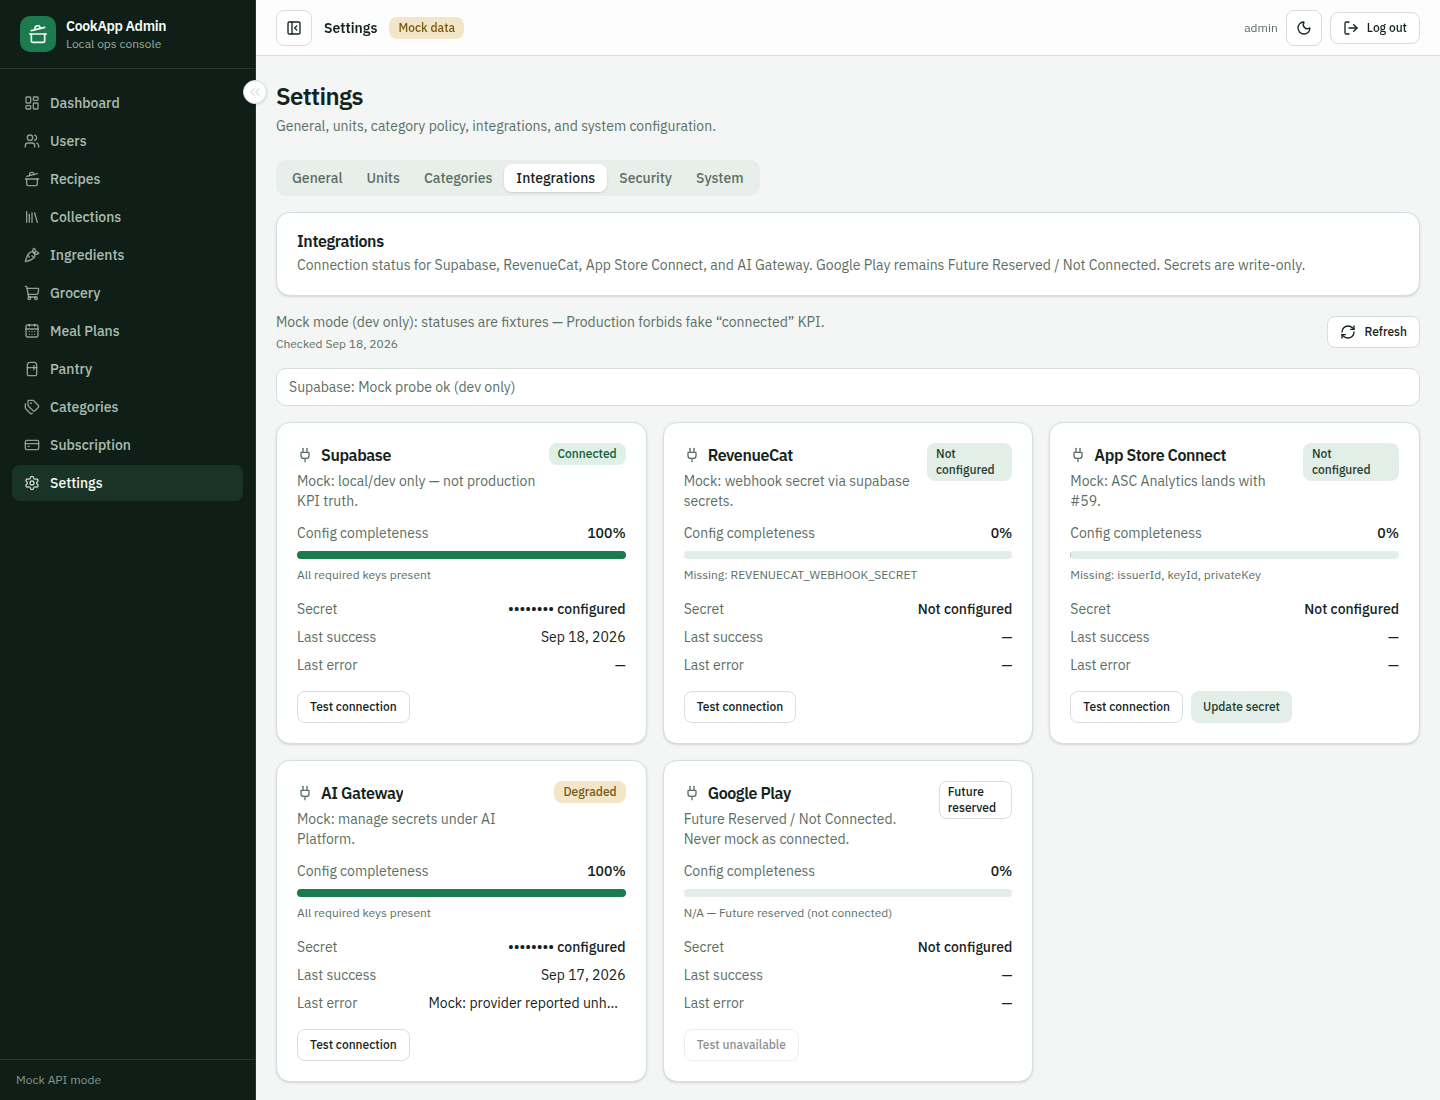
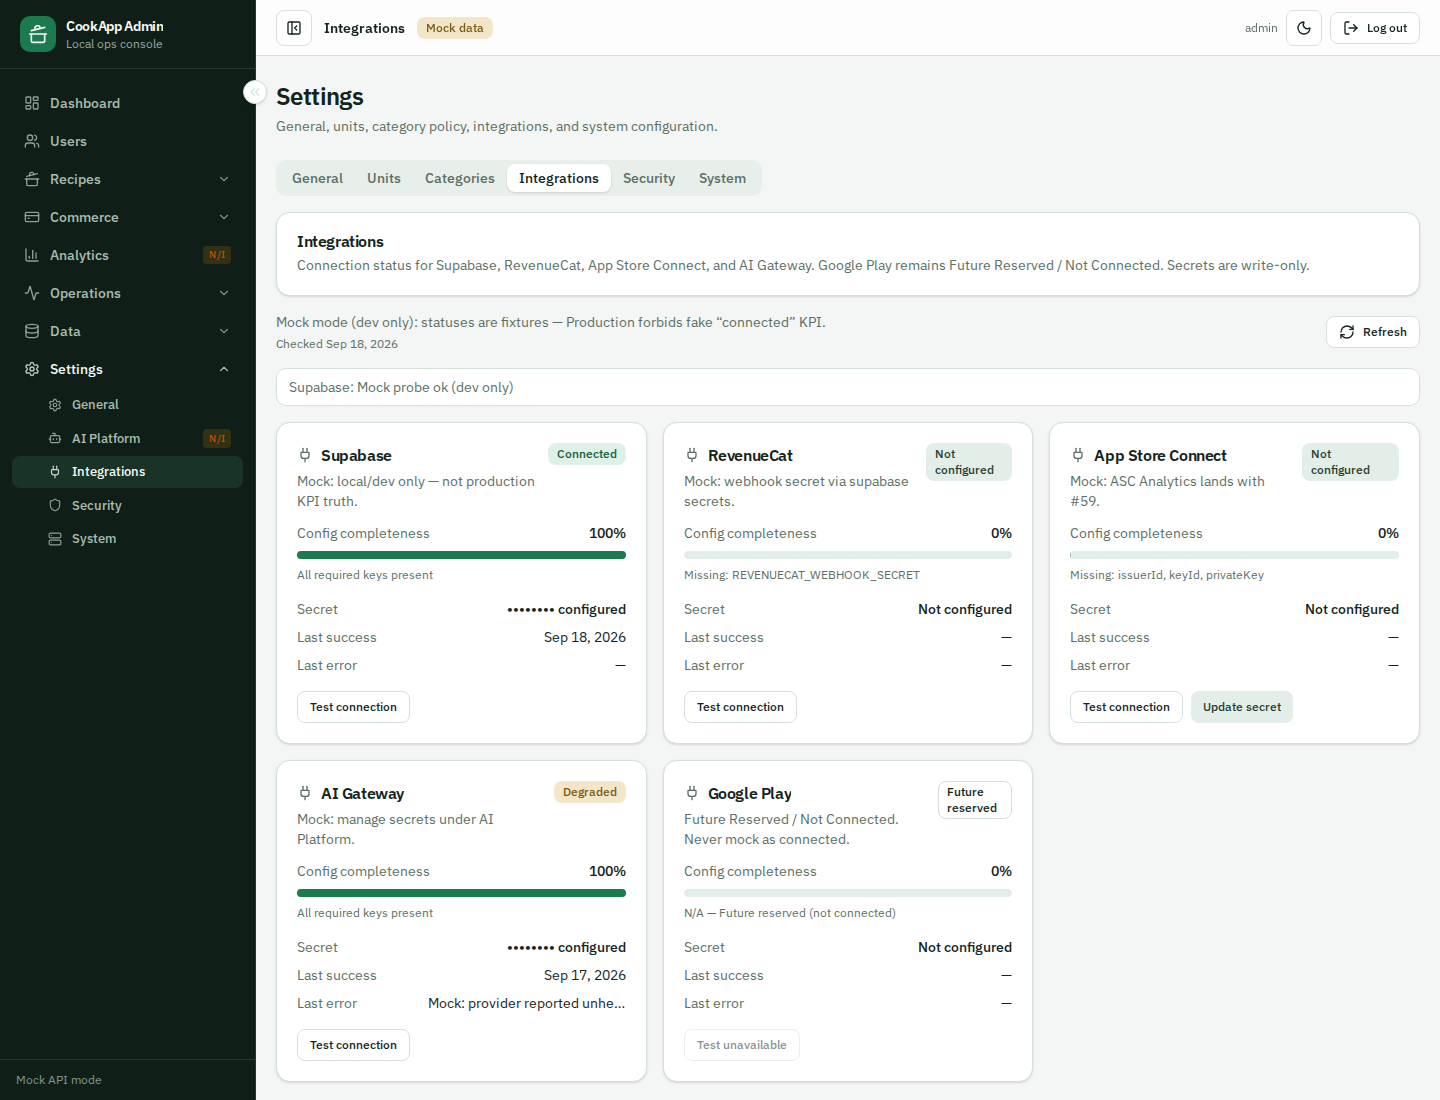
chore(qa): re-capture Integrations walkthrough under Settings nav
Refresh evidence for #63 after Refresh loading fix; desktop/mobile/dark/secret dialog under #64 IA.

diff --git a/.cursor/walkthrough-artifacts/issue63-integrations/VERDICT.md b/.cursor/walkthrough-artifacts/issue63-integrations/VERDICT.md
@@ -1,31 +1,33 @@
-# Admin Design QA — Settings → Integrations (#63)
+# Admin Design QA — Settings → Integrations (#63) — post-merge refresh fix
 
-Screen: **Settings → Integrations**  
+Screen: **Settings → Integrations** (nav leaf under #64 Settings group)  
 Code: `admin/src/pages/settings/integrations-panel.tsx`, `admin/src/pages/settings/settings-page.tsx`  
-Evidence: `integrations-desktop.png`, `integrations-mobile.png`, `integrations-after-test.png`  
+Evidence (re-captured after Refresh fix):
+- `integrations-desktop.png`
+- `integrations-mobile.png`
+- `integrations-desktop-dark.png`
+- `integrations-secret-dialog.png`
+- `integrations-after-test.png`
+- `page-text.txt`
+
 Rules: Global Admin UI Standard · shared Admin kit/tokens · data authenticity (V2 §11)
 
 ```
-VERDICT: PASS
-Screenshot fidelity: N/A (no Pestle/mobile screenshot SoT for Admin; layout matches Global Admin UI Standard + existing Settings shell). Desktop + narrow viewport captured.
-Liquid Glass: N/A (Admin web kit, not iOS Liquid Glass chrome).
-Consistency (shared chrome/tokens): PASS — reuses PageHeader/Tabs/Card/Badge/Button/Progress/Dialog from shared kit; brand green tokens; no page-local palette forks.
-Control states: PASS — LoadingBlock/ErrorState/Retry; Refresh; Test connection loading; Test unavailable disabled for Google Play; Update secret dialog with validation; mock-mode banner; secret masked as •••••••• configured.
-Violations: (none)
-Required redo: (none)
+VERDICT: AWAITING INDEPENDENT RE-QA (implementer must not self-approve)
+Screenshot fidelity: N/A (no Pestle/mobile screenshot SoT for Admin). Desktop + mobile + dark + secret dialog re-captured under current #64 Settings → Integrations nav.
+Liquid Glass: N/A (Admin web kit).
+Consistency (shared chrome/tokens): Reuses PageHeader/Tabs/Card/Badge/Button/Progress/Dialog; brand green tokens.
+Control states (fix under review): Refresh now wires `refreshing` from `useAsyncData` via `loading={refreshing}` + `disabled={refreshing}`. Test connection loading / secret dialog unchanged.
+Violations (prior FAIL addressed in code): Refresh lacked refreshing binding — fixed in this PR; requires independent QA confirm.
+Required redo: Independent UI QA agent must re-run and return PASS|FAIL.
 ```
 
-## Checks
+## Fix delta
 
-1. **IA** — Integrations under Settings tabs (not a duplicate top-level nav).
-2. **Authenticity** — Mock fixtures never mark Google Play Connected; production path uses `admin-integrations` live API.
-3. **Secrets** — Write-only dialog; UI never displays plaintext after save.
-4. **Responsive** — Cards stack on ~390px width; tabs remain reachable.
-5. **States** — connected / not_configured / degraded / future_reserved badges + completeness + last success/error.
+- `useAsyncData` now destructures `refreshing`
+- Refresh `Button`: `loading={refreshing}` and `disabled={refreshing}`
 
 ## Build / Test
 
-- `deno test --allow-env supabase/functions/_shared/integrations_status_test.ts` — 9/9 pass
 - `npm --prefix admin test` — pass
 - `npm --prefix admin run build` — pass
-- OpenAPI yaml ↔ json ↔ spec.json synced
